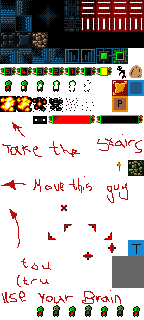
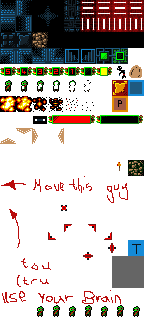
Add saw blades

diff --git a/src/game_object/enemy_pathable.py b/src/game_object/enemy_pathable.py
@@ -12,6 +12,8 @@ import src.graphics as graphics
 import time
 
 class EnemyPathable(entity.Entity):
+    """Represents most things that follow a path and kill you.
+    Not just literal enemies, could also be saw blades etc..."""
     def __init__(
             self, 
             x: int, 
@@ -19,26 +21,22 @@ class EnemyPathable(entity.Entity):
             width: int, 
             height: int, 
             path: Path, 
+            speed: int = 2,
             image=None
         ):
         entity.Entity.__init__(self, x, y, width, height, image)
         self.minimap_colour = colours.RED_HIGHLIGHT
         self.path = path
         self.destination = path.points[-1]
-        self.speed =  1
         self.processed_points = []
         self.position = Vector2(x, y)
         self.vel = Vector2(0, 0)
         self.target = self.path.points[1]
         self.target_radius = 25
-        self.max_speed = 2
+        self.speed = speed
         self.waypoint_index = 0
 
     def handle_collision(self, tile, player, level):
-        """
-        TODO: this code is shockingly bad. Refactor when less tired and know
-        more vector math
-        """
         if pygame.sprite.collide_rect(self, player):
             pygame.sprite.Sprite.kill(player)
 
@@ -52,6 +50,6 @@ class EnemyPathable(entity.Entity):
             self.waypoint_index = (self.waypoint_index + 1) % len(self.path.points)
             self.target = self.path.points[self.waypoint_index]
 
-        self.vel = heading * self.max_speed # Otherwise move with max_speed.
+        self.vel = heading * self.speed
         self.position += self.vel
         self.rect.topleft = self.position

diff --git a/src/tiled_map.py b/src/tiled_map.py
@@ -166,7 +166,8 @@ class TiledMap():
             type_map = {
                 'enemy_pathable':{
                     **common,
-                    'path': self.paths[tile_object.follows_path_id]
+                    'path': self.paths[tile_object.follows_path_id],
+                    'speed': tile_object.properties.get('speed', 2),
                 },
             }
 
